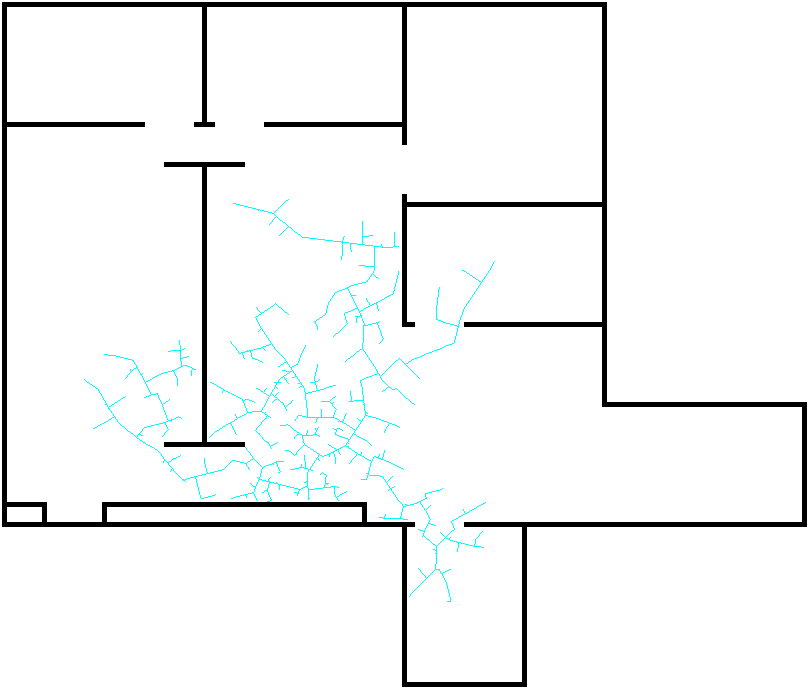
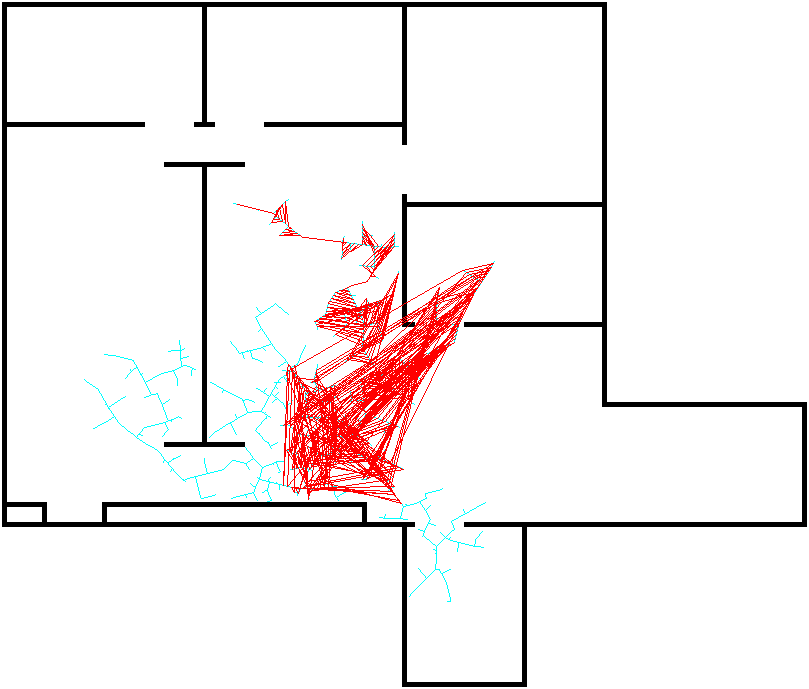
Djikstra doesn't really work, but it's better than nothing...?

Changed region(s): [[0.3399, 0.3353, 0.618, 0.7315], [0.3399, 0.3048, 0.3708, 0.3353]]

diff --git a/stage_control/src/DjikstraRRT.cpp b/stage_control/src/DjikstraRRT.cpp
@@ -7,9 +7,10 @@ DjikstraRRT::DjikstraRRT()
 }
 
 // FOLLOWS WIKIPEDIA PSEUDOCODE, SO VARIABLE NAMES WILL LOOK... VARI ASS
-void find_path(std::vector<RRTNode*> graph, RRTNode *start, cv::Vec2i goal)
+void DjikstraRRT::find_path(std::vector<RRTNode*> graph, RRTNode *start, cv::Vec2i goal)
 {
 	std::vector<DjikstraRRTNode> Q;
+	std::vector<DjikstraRRTNode> tmp_path;
 
 	// lines 5 through 8
 	for(unsigned int i = 0; i < graph.size(); i++)
@@ -18,6 +19,7 @@ void find_path(std::vector<RRTNode*> graph, RRTNode *start, cv::Vec2i goal)
 		v.node = graph[i];
 		v.previous = nullptr; // this is safe, right? RIGHT????
 		v.distance = INFINITY;
+		Q.push_back(v);
 	}
 
 	// line 10
@@ -26,6 +28,7 @@ void find_path(std::vector<RRTNode*> graph, RRTNode *start, cv::Vec2i goal)
 		if(Q[i].node == start)
 		{
 			Q[i].distance = 0;
+			break;
 		}
 	}
 
@@ -37,25 +40,44 @@ void find_path(std::vector<RRTNode*> graph, RRTNode *start, cv::Vec2i goal)
 
 		// line 15
 		unsigned int u_index = get_node_index(u, Q);
+		if(Q[u_index].node->position == goal)
+		{
+			reconstruction(tmp_path, start, goal);
+			return;
+		}
 		Q.erase(Q.begin() + u_index);
 
 		// line 17
 		for(unsigned int i = 0; i < u.node->children.size(); i++)
 		{
 			// line 18
-			float alt = u.distance + distance(u, u.node->children[i]);
+			float alt = u.distance + distance(u.node, u.node->children[i]);
 			unsigned int v_index = get_node_index(u.node->children[i], Q);
 
 			// line 19
 			if(alt < Q[v_index].distance)
 			{
+				// line 20
 				Q[v_index].distance = alt;
+				// line 21
 				Q[v_index].previous = u.node;
-				path.push_back(u.node);
+				// basically line 23
+				tmp_path.push_back(Q[v_index]);
 			}
 		}
+	}
 
-	//	for(int i = 0; i < )
+	reconstruction(tmp_path, start, goal);
+}
+
+void DjikstraRRT::reconstruction(std::vector<DjikstraRRTNode> tmp_path, RRTNode *start, cv::Vec2i goal)
+{
+	for(unsigned int i = tmp_path.size() - 1; i > 0; i--)
+	{
+		if(tmp_path[i].previous != nullptr)
+		{
+			path.push_back(tmp_path[i].previous);
+		}
 	}
 }
 
@@ -88,6 +110,20 @@ unsigned int DjikstraRRT::get_node_index(DjikstraRRTNode u, std::vector<Djikstra
 
 	return 0; // SAFE? PROOOOBABLY NOT
 }
+
+
+unsigned int DjikstraRRT::get_node_index(RRTNode *u, std::vector<DjikstraRRTNode> Q)
+{
+	for(unsigned int i = 0; i < Q.size(); i++)
+	{
+		if(Q[i].node == u)
+		{
+			return i;
+		}
+	}
+
+	return 0;
+}	
 
 
 float DjikstraRRT::distance(RRTNode *u, RRTNode *vchild)

diff --git a/stage_control/src/Robot.cpp b/stage_control/src/Robot.cpp
@@ -43,6 +43,8 @@ void Robot::run()
 	printf("pixel_position: %d %d\n", pixel_position.val[0], pixel_position.val[1]);
 	
 	rrt_path.find_path(rrt.nodes, rrt.nodes[0], goal_position);
+	printf("Djikstra RRT path found\n");
+	printf("Size of djikstra RRT path: %lu\n", rrt_path.path.size());
 	
 	write_image(689, 809);
 
@@ -61,13 +63,22 @@ void Robot::write_image(int rows, int columns)
 	cv::Mat image = cv::imread("src/ros-rrt-quadtree/bitmaps/autolab.png", cv::IMREAD_COLOR);
 	
 //Scalar intensity = img.at<uchar>(y, x);
+	// draw the tree in 255b, 255g... since it's BGR?
 	for(unsigned int i = 0; i < rrt.nodes.size(); i++)
 	{
-		for(int j = 0; j < rrt.nodes[i]->children.size(); j++)
+		for(unsigned int j = 0; j < rrt.nodes[i]->children.size(); j++)
 		{
 			cv::line(image, rrt.nodes[i]->position, rrt.nodes[i]->children[j]->position, cv::Scalar(255, 255, 0));
 		}
 	}
+
+	// draw the path in.... RED???
+	for(unsigned int i = 0; i < rrt_path.path.size() - 1; i++)
+	{
+		cv::line(image, rrt_path.path[i]->position, rrt_path.path[i + 1]->position, cv::Scalar(0, 0, 255));
+	}
+
+
 
 	cv::namedWindow("Graph", CV_WINDOW_AUTOSIZE);
 	cv::imshow("Graph", image);

diff --git a/stage_control/src/DjikstraRRT.h b/stage_control/src/DjikstraRRT.h
@@ -27,7 +27,9 @@ class DjikstraRRT
 	private:
 		DjikstraRRTNode min_distance_in_Q(std::vector<DjikstraRRTNode> Q);
 		unsigned int get_node_index(DjikstraRRTNode u, std::vector<DjikstraRRTNode> Q);
+		unsigned int get_node_index(RRTNode *u, std::vector<DjikstraRRTNode> Q);
 		float distance(RRTNode *u, RRTNode *vchild);
+		void reconstruction(std::vector<DjikstraRRTNode> tmp_path, RRTNode *start, cv::Vec2i goal);
 };
 
 
